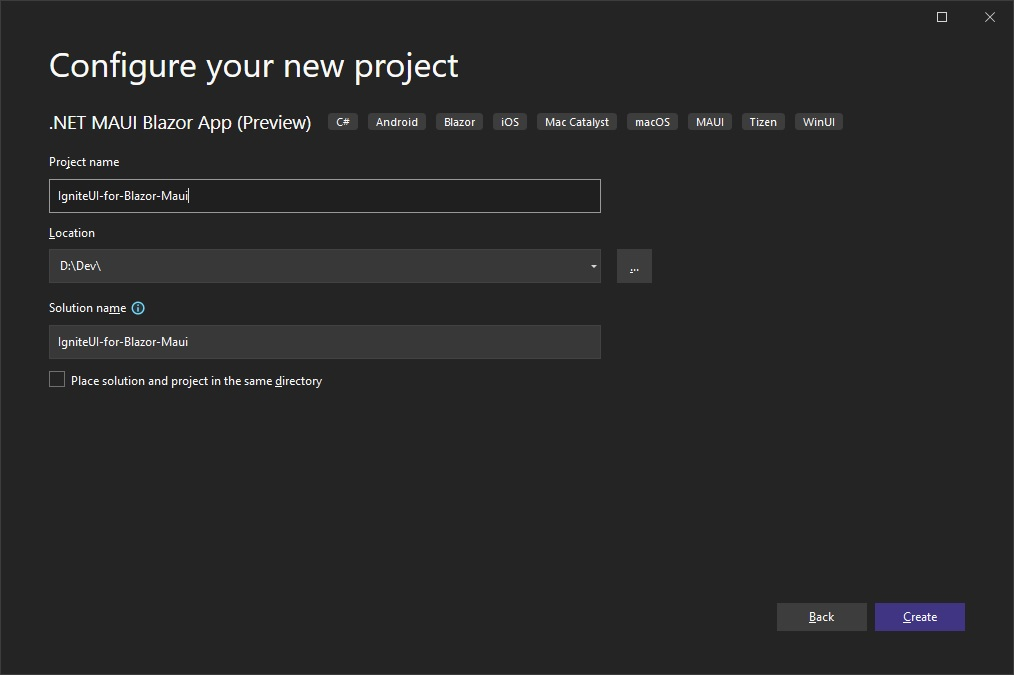
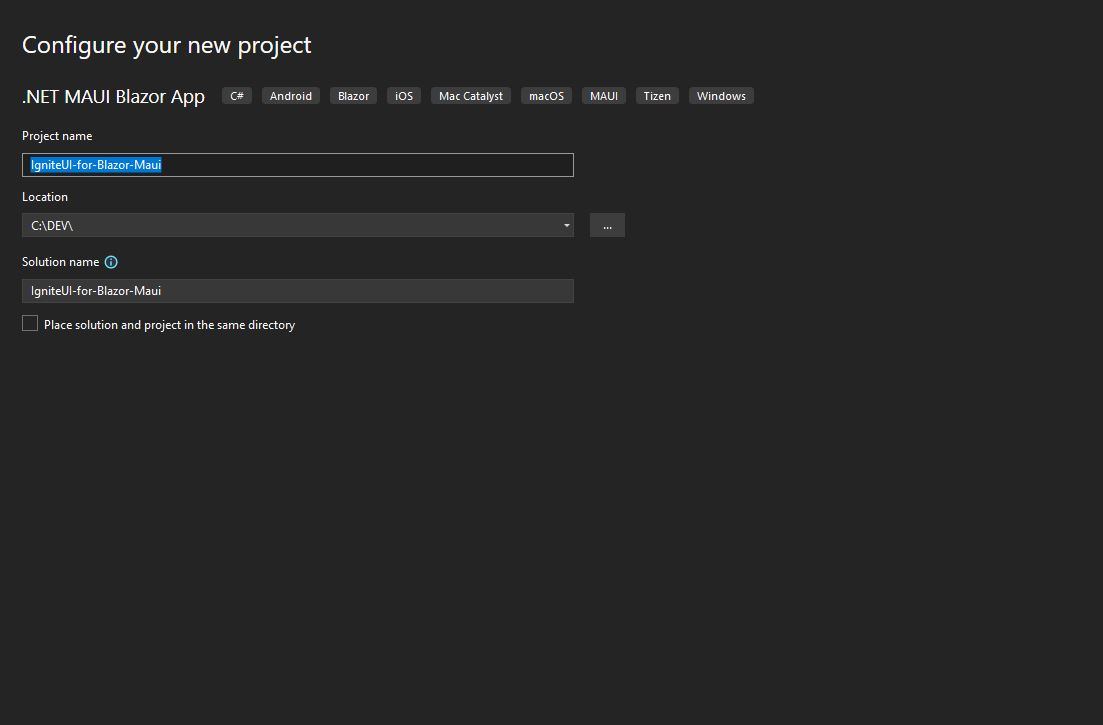
mdd-issue-440
https://github.com/IgniteUI/igniteui-xplat-docs/issues/440

diff --git a/doc/en/components/general-getting-started-blazor-maui.md b/doc/en/components/general-getting-started-blazor-maui.md
@@ -6,10 +6,7 @@ mentionedTypes: []
 ---
 # Getting Started: Build a Blazor Hybrid App with .NET MAUI
 
-This topic provides step-by-step instructions for creating .NET MAUI Blazor applications with Ignite UI for Blazor using Visual Studio 2022 Preview.
-
-> [!NOTE]
-> .NET Multi-platform App UI (.NET MAUI) is currently in preview. This content relates to a pre-release product that may be substantially modified before it's released. Infragistics makes no warranties, express or implied, with respect to the information provided here.
+This topic provides step-by-step instructions for creating .NET MAUI Blazor applications with Ignite UI for Blazor using Visual Studio 2022.
 
 ### What is Blazor Hybrid?
 
@@ -24,8 +21,8 @@ But in order to be able to use it for your apps, you need .NET MAUI.
 
 ## Prerequisites
 
-* .NET SDK 6.0.101 or above
-* Visual Studio 2022 Preview 17.1 or above, with the following workloads:
+* .NET SDK 7 or above
+* Visual Studio 2022 17.4 or above, with the following workloads:
     - Mobile development with .NET
     - ASP.NET and Web Development
 
@@ -33,7 +30,7 @@ But in order to be able to use it for your apps, you need .NET MAUI.
 
 The steps below describe how to create a new .NET MAUI Blazor project. If you want to add Ignite UI for Blazor to an existing application, go to the [**Install Ignite UI for Blazor Package**](#install-ignite-ui-for-blazor) section.
 
-Start Visual Studio 2022 Preview and click **Create a new project** on the start page, select the **.NET MAUI Blazor App (Preview)** template, and click **Next**.
+Start Visual Studio 2022 and click **Create a new project** on the start page, select the **.NET MAUI Blazor App** template, and click **Next**.
 
 <img src="../images/general/new-blazor-project-maui.jpg" />
 
